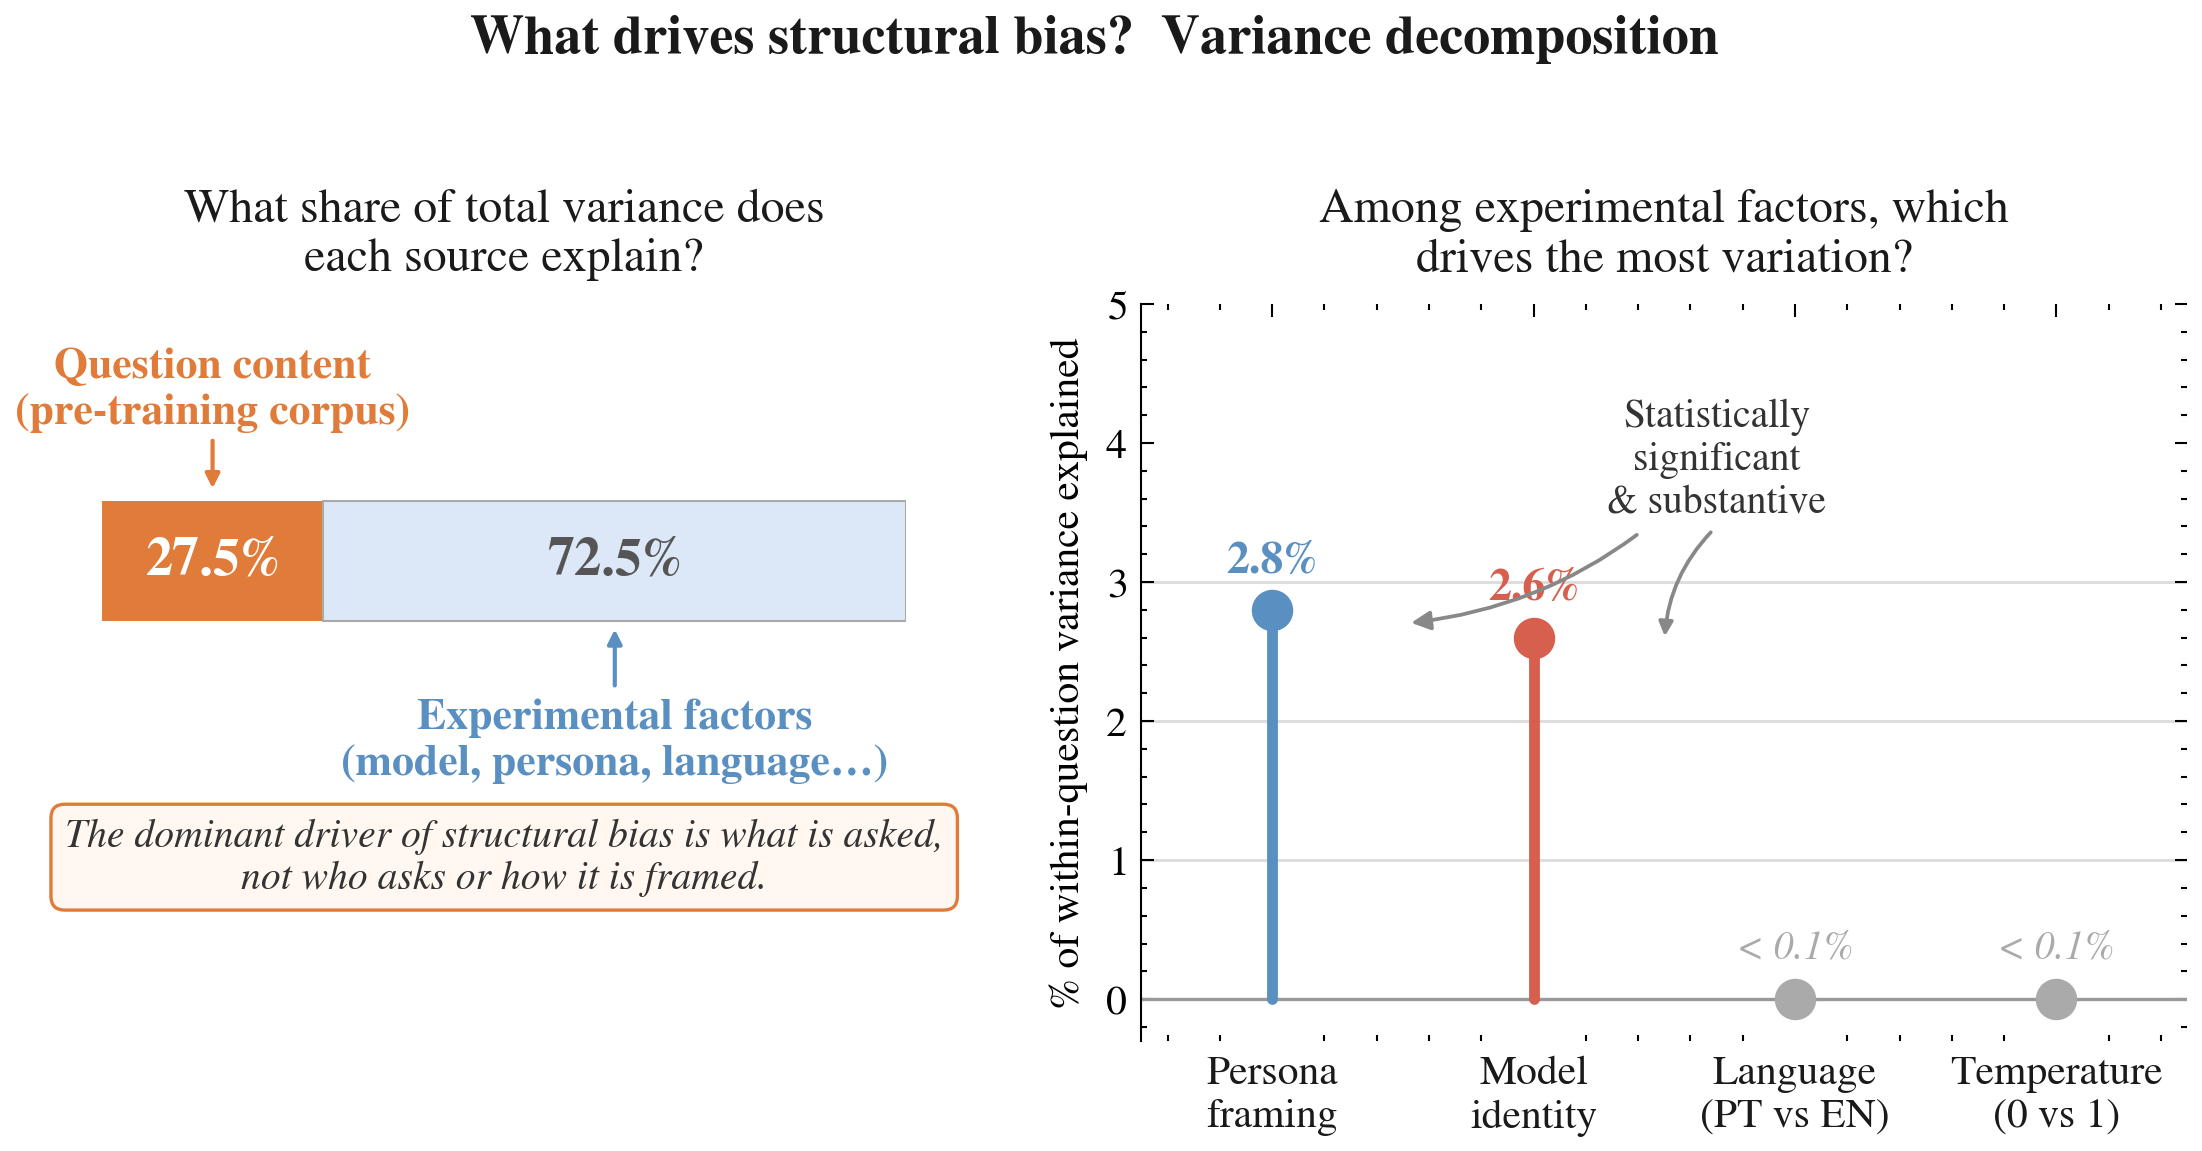
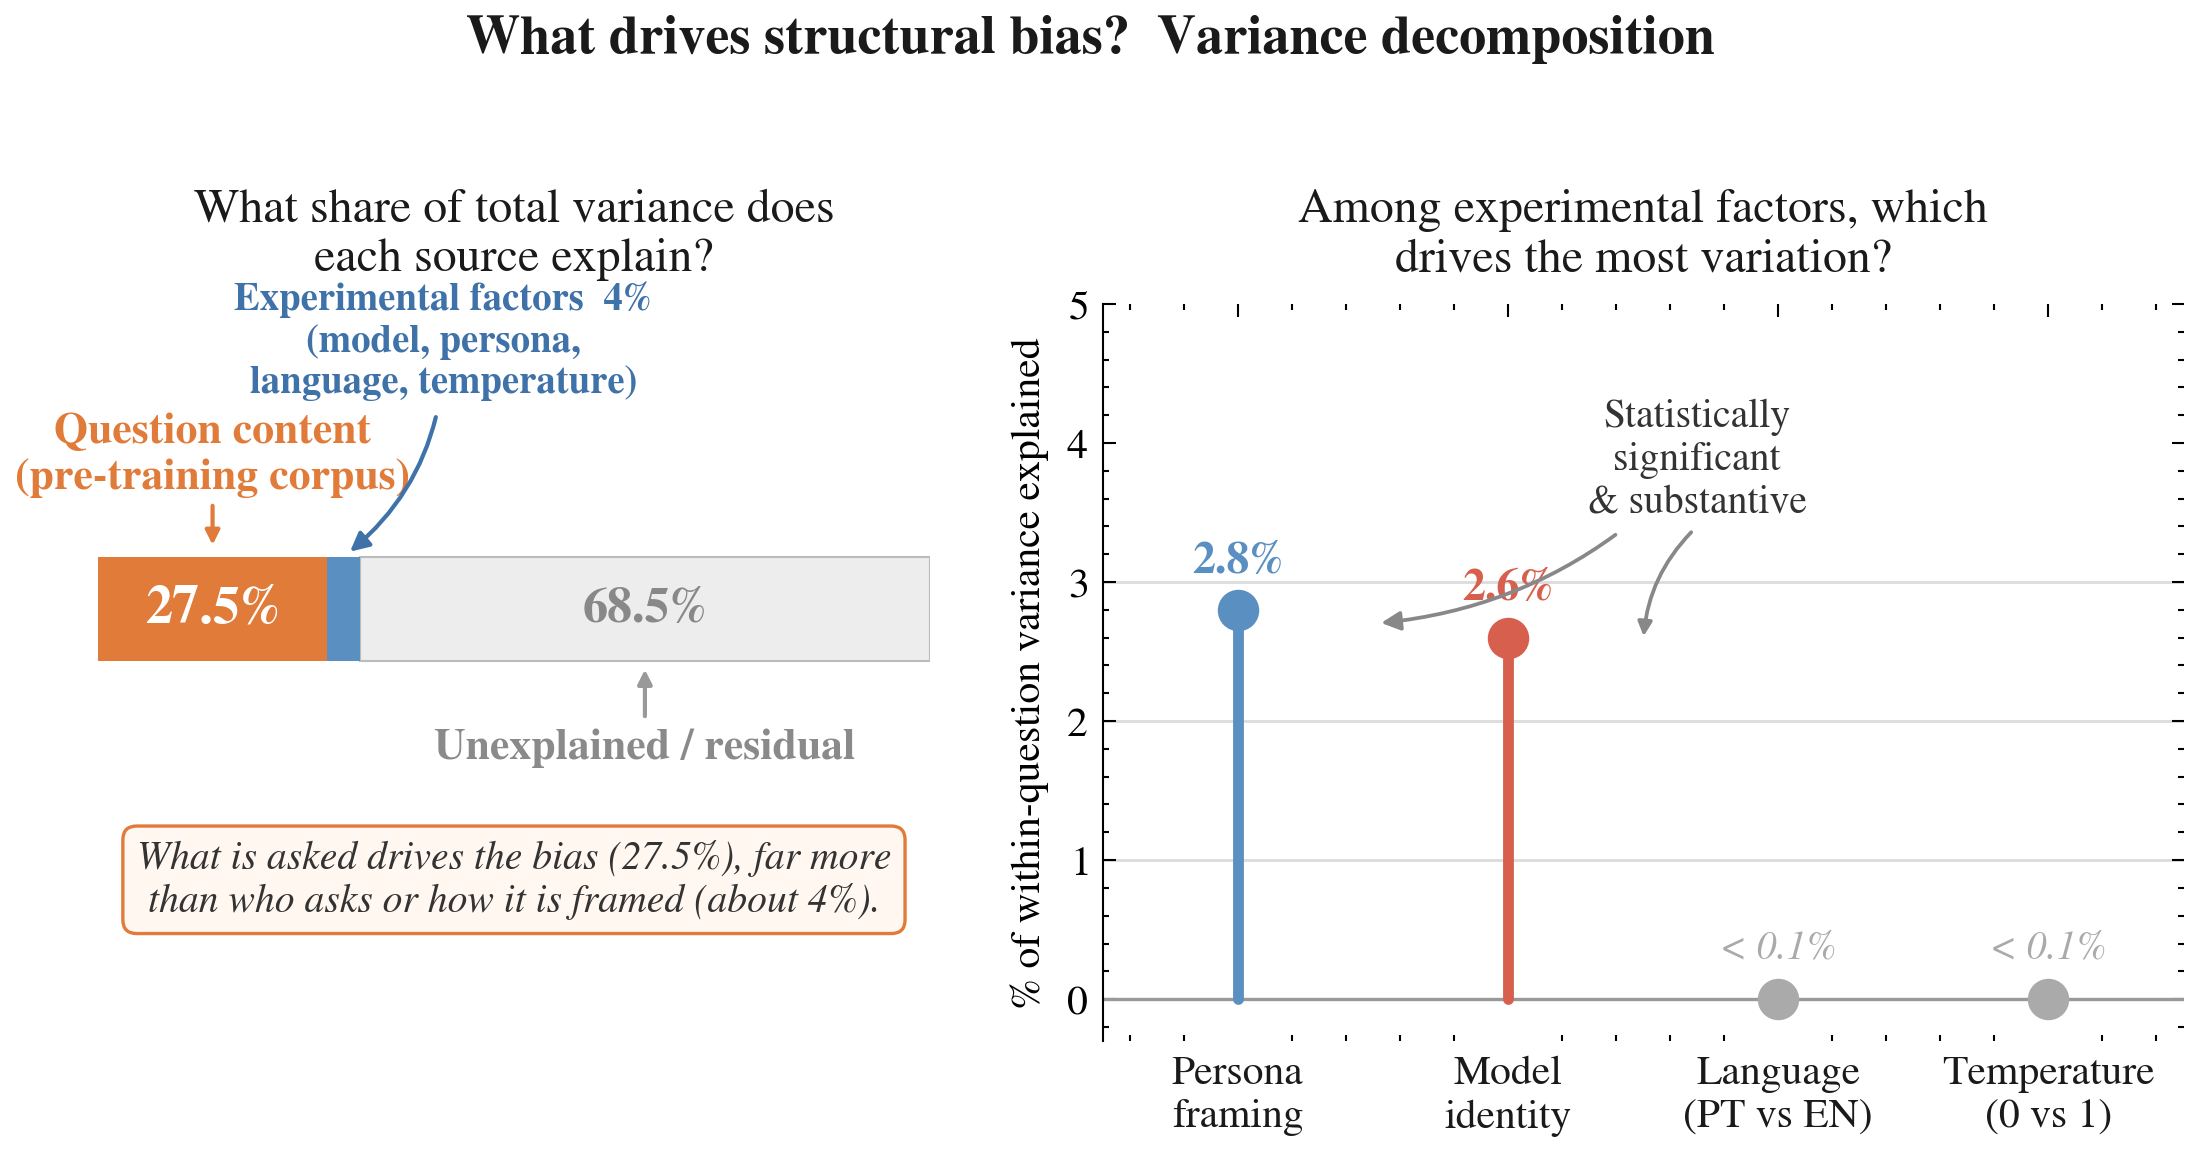
Fix variance decomposition figure: correct mislabelled left panel
The left panel labelled the 72.5% within-question variance as
"experimental factors", which mislabelled residual noise as the
manipulated factors and contradicted both the caption and the right
panel. Replaced with an honest three-way split: question content 27.5%,
experimental factors ~4% (model+persona+language+temperature), and
unexplained/residual ~68.5%.

diff --git a/make_variance_decomp.py b/make_variance_decomp.py
@@ -18,37 +18,53 @@ fig, (ax1, ax2) = plt.subplots(1, 2, figsize=(7.6, 3.8),
                                 gridspec_kw={"width_ratios": [1, 1.3]})
 fig.patch.set_facecolor("white")
 
-# ── LEFT PANEL — total variance partition ──────────────────────────────────
+# ── LEFT PANEL — total variance partition (3-way, honest) ──────────────────
+# Question content = 27.5% of total variance; the manipulated experimental
+# factors (model 1.91 + persona 2.04 + language 0.01 + temperature 0.00) sum to
+# ~4%; the remaining ~68.5% is within-question residual (item-level noise).
 ax1.set_facecolor("white")
-q_val, exp_val = 27.5, 72.5
-colors = ["#e07b39", "#dce8f7"]
+q_val, fac_val, res_val = 27.5, 4.0, 68.5
+c_q, c_fac, c_res = "#e07b39", "#5a8fc2", "#ededed"
+fac_start = q_val
+res_start = q_val + fac_val
 
-ax1.barh(0.5, q_val, color=colors[0], height=0.28, zorder=2)
-ax1.barh(0.5, exp_val, left=q_val, color=colors[1], height=0.28, zorder=2,
-         edgecolor="#aaaaaa", lw=0.5)
+ax1.barh(0.5, q_val, color=c_q, height=0.28, zorder=2)
+ax1.barh(0.5, fac_val, left=fac_start, color=c_fac, height=0.28, zorder=3)
+ax1.barh(0.5, res_val, left=res_start, color=c_res, height=0.28, zorder=2,
+         edgecolor="#bbbbbb", lw=0.5)
 
+# in-bar percentages for the two wide segments
 ax1.text(q_val / 2, 0.5, f"{q_val:.1f}%",
-         ha="center", va="center", fontsize=13, fontweight="bold", color="white", zorder=3)
-ax1.text(q_val + exp_val / 2, 0.5, f"{exp_val:.1f}%",
-         ha="center", va="center", fontsize=13, fontweight="bold", color="#555", zorder=3)
+         ha="center", va="center", fontsize=13, fontweight="bold", color="white", zorder=4)
+ax1.text(res_start + res_val / 2, 0.5, f"{res_val:.1f}%",
+         ha="center", va="center", fontsize=12, fontweight="bold", color="#888", zorder=4)
 
+# question label (above)
 ax1.text(q_val / 2, 0.80, "Question content\n(pre-training corpus)",
          ha="center", va="bottom", fontsize=10.5, color="#e07b39", fontweight="bold")
 ax1.annotate("", xy=(q_val / 2, 0.65), xytext=(q_val / 2, 0.80),
              arrowprops=dict(arrowstyle="-|>", color="#e07b39", lw=1.0))
 
-ax1.text(q_val + exp_val / 2, 0.18, "Experimental factors\n(model, persona, language…)",
-         ha="center", va="top", fontsize=10.5, color="#5a8fc2", fontweight="bold")
-ax1.annotate("", xy=(q_val + exp_val / 2, 0.36), xytext=(q_val + exp_val / 2, 0.19),
-             arrowprops=dict(arrowstyle="-|>", color="#5a8fc2", lw=1.0))
+# experimental factors (thin slice) — callout above-right
+ax1.annotate(f"Experimental factors  {fac_val:.0f}%\n(model, persona,\nlanguage, temperature)",
+             xy=(fac_start + fac_val / 2, 0.64), xytext=(fac_start + 14, 1.06),
+             ha="center", va="bottom", fontsize=9.3, color="#3f72a8", fontweight="bold",
+             arrowprops=dict(arrowstyle="-|>", color="#3f72a8", lw=1.0,
+                             connectionstyle="arc3,rad=-0.25"))
 
-ax1.text(50, -0.10,
-         "The dominant driver of structural bias is what is asked,\nnot who asks or how it is framed.",
+# residual label (below)
+ax1.text(res_start + res_val / 2, 0.18, "Unexplained / residual",
+         ha="center", va="top", fontsize=10.5, color="#8a8a8a", fontweight="bold")
+ax1.annotate("", xy=(res_start + res_val / 2, 0.36), xytext=(res_start + res_val / 2, 0.19),
+             arrowprops=dict(arrowstyle="-|>", color="#999", lw=1.0))
+
+ax1.text(50, -0.12,
+         "What is asked drives the bias (27.5%), far more\nthan who asks or how it is framed (about 4%).",
          ha="center", va="top", fontsize=9.5, color="#333", style="italic",
          bbox=dict(boxstyle="round,pad=0.35", facecolor="#fff7f0", edgecolor="#e07b39", lw=0.8))
 
 ax1.set_xlim(0, 100)
-ax1.set_ylim(-0.62, 1.10)
+ax1.set_ylim(-0.66, 1.32)
 ax1.axis("off")
 ax1.set_title("What share of total variance does\neach source explain?",
               fontsize=11.5, pad=8, color="#1a1a1a")